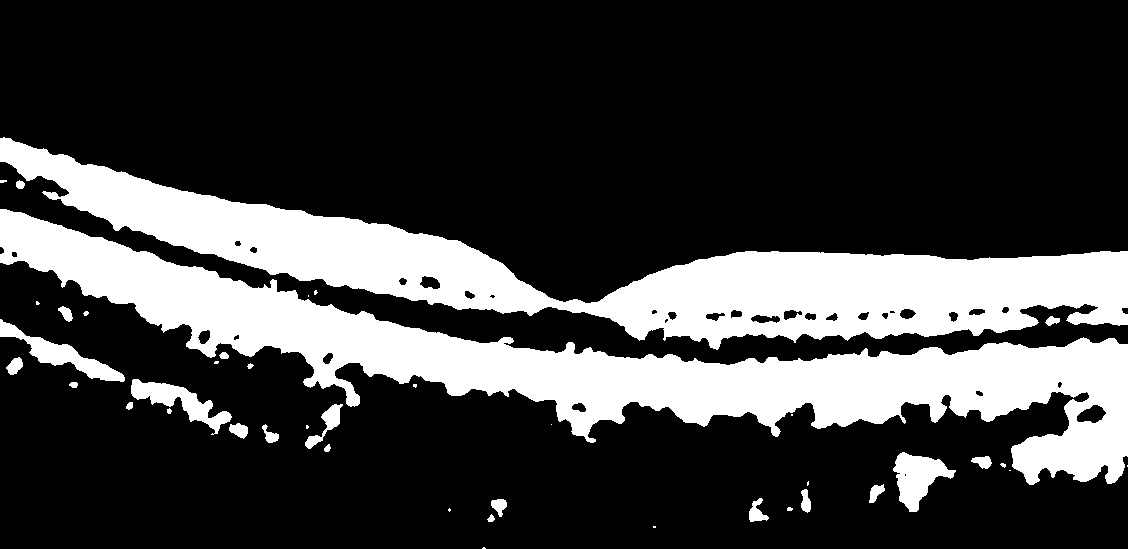
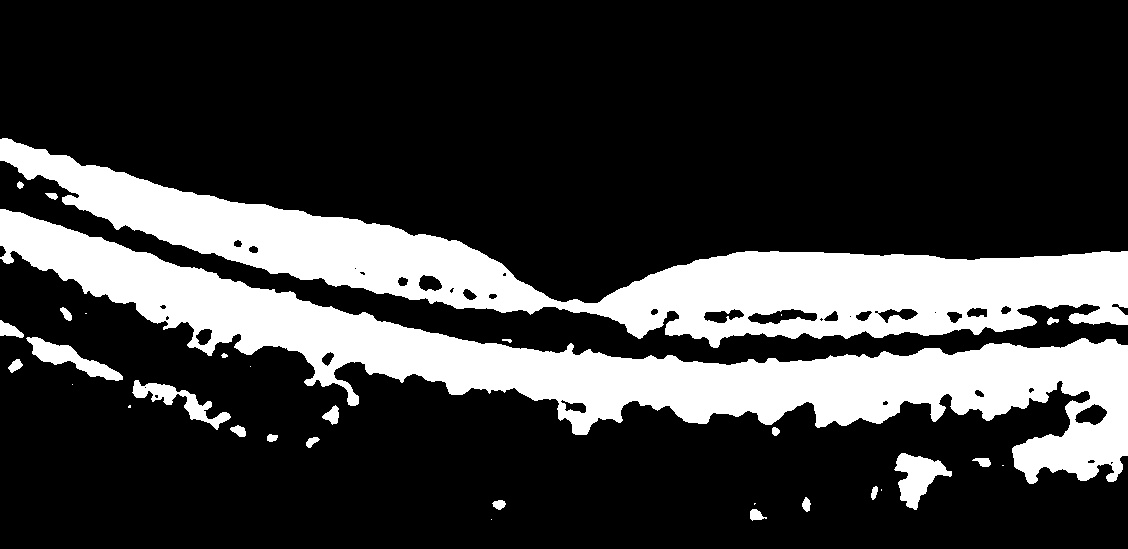
trying different datatypes for 4.1 and 4.2
also report 4.1 and 4.2 done

diff --git a/1. Exercise/FCNs_1_4.py b/1. Exercise/FCNs_1_4.py
@@ -14,13 +14,14 @@ from matplotlib import pyplot as plt
 # 4.1 Otsu thresholding algorithm
 def Otsu_Threshholding_Algorithm(img_norm):
     #compute threshold value and mask with otsu algorithm
-    img = np.uint16(img_norm*255)
+    img = np.uint8(img_norm*255)               # convert float32 img into uint8
     Otsu_th,Otsu_img = cv2.threshold(img,0,255,cv2.THRESH_BINARY+cv2.THRESH_OTSU)
     cv2.imwrite("Otsu_Mask.jpg", Otsu_img)
-    return Otsu_th                     # return threshold value
+    return Otsu_th                             # return threshold value
 
 def Triangle_Threshholding_Algorithm(img_norm):
-    img = np.uint8(img_norm*255)
+    #compute threshold value and mask with triangle algorithm
+    img = np.uint8(img_norm*255)               # convert float32 img into uint8
     Triangle_th,Triangle_img = cv2.threshold(img,0,255,cv2.THRESH_BINARY+cv2.THRESH_TRIANGLE)
     cv2.imwrite("Triangle_Mask.jpg", Triangle_img)
-    return Triangle_th                 # return threshold value
+    return Triangle_th                         # return threshold value

diff --git a/1. Exercise/Exercise_1_4_testing.py b/1. Exercise/Exercise_1_4_testing.py
@@ -14,7 +14,7 @@ plt.figure(1)
 plt.imshow(img_norm)
 
 # Otsu's thresholding
-img = np.uint8(img_norm*255)
+img = np.uint16(img_norm*65535)
 plt.figure(2)
 plt.imshow(img)
 Otsu_th,Otsu_img = cv2.threshold(img,0,255,cv2.THRESH_BINARY+cv2.THRESH_OTSU)
@@ -22,7 +22,7 @@ plt.figure(3)
 plt.imshow(Otsu_img)
 cv2.imwrite("Otsu_Mask.jpg", Otsu_img)
 
-
+"""
 Triangle_th,Triangle_img = cv2.threshold(img,0,255,cv2.THRESH_TRIANGLE)
 cv2.imwrite("Triangle_Mask.jpg", Triangle_img)
 
@@ -33,3 +33,4 @@ Otsu_th1,Otsu_img1 = cv2.threshold(img1,0,255,cv2.THRESH_BINARY+cv2.THRESH_OTSU)
 cv2.imwrite("Otsu_Mask_gauss.jpg", Otsu_img1)
 Triangle_th1,Triangle_img1 = cv2.threshold(img1,0,255,cv2.THRESH_TRIANGLE)
 cv2.imwrite("Triangle_Mask_gauss.jpg", Triangle_img1)
+"""

diff --git a/1. Exercise/main.py b/1. Exercise/main.py
@@ -79,7 +79,7 @@ Canny_Edge_Detection()
 Otsu_threshold = Otsu_Threshholding_Algorithm(Normalized_Img)
 
 #4.2 Additional Segmentation Algorithm
-Triangle_Threshholding_Algorithm(Normalized_Img)
+Triangle_th = Triangle_Threshholding_Algorithm(Normalized_Img)
 
 #4.3 Segment Evaluation
 
